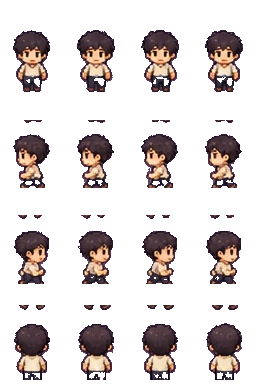
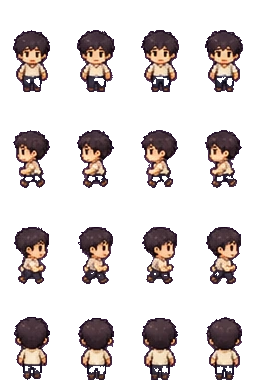
fix(sprites): calibrate row boundaries and eliminate top floating shoe artifacts

diff --git a/src/game/HarborStage.tsx b/src/game/HarborStage.tsx
@@ -36,7 +36,7 @@ export default function HarborStage({onTarget,onCustomerCount,onCustomerExit,ser
     constructor(){super('HarborCourtyard')}
     preload(){
      this.load.image('courtyard','/assets/harbor-courtyard.webp?v=5');
-     for(const id of keys)this.load.spritesheet(id,`/assets/pixel/characters/${id}.png?v=5`,{frameWidth:64,frameHeight:96});
+     for(const id of keys)this.load.spritesheet(id,`/assets/pixel/characters/${id}.png?v=6`,{frameWidth:64,frameHeight:96});
      for(const id of ['ban-go','ghe-go','cay-canh','den-long'])this.load.image(id,`/assets/pixel/props/${id}.png`);
     }
     private report(){countRef.current?.(this.customers.filter(g=>g.state==='waiting').length)}

diff --git a/tools/repair_characters_and_courtyard.py b/tools/repair_characters_and_courtyard.py
@@ -25,7 +25,8 @@ cols = {
     'khach-nu': [1373, 1415, 1457, 1500],
 }
 # Source is rows down / left / right / up, four successive walking frames each
-rows = [(193, 264), (262, 330), (330, 399), (398, 473)]
+# Calibrated row boundaries prevent clipping previous row's shoes into head region
+rows = [(186, 264), (274, 336), (343, 405), (404, 480)]
 folder = ROOT / 'public/assets/pixel/characters'
 folder.mkdir(parents=True, exist_ok=True)
 half_w = 19
@@ -58,9 +59,15 @@ for name, xs in cols.items():
                     primary = max(valid, key=lambda c: c[1] - c[2] * 25)
                     prim_j = primary[0]
                     prim_cx = centroids[prim_j][0]
+                    prim_top = stats[prim_j, cv2.CC_STAT_TOP]
                     for j, area, dist, is_edge in valid:
                         # Include only components belonging to the primary character
                         if abs(centroids[j][0] - prim_cx) <= 13:
+                            comp_top = stats[j, cv2.CC_STAT_TOP]
+                            comp_bot = comp_top + stats[j, cv2.CC_STAT_HEIGHT]
+                            # Reject any stray piece floating disconnected above the head
+                            if comp_bot < prim_top - 2:
+                                continue
                             if not (is_edge and area < 250 and dist > 9):
                                 good[labels == j] = 255
 
@@ -69,6 +76,24 @@ for name, xs in cols.items():
             bbox = pic.getbbox()
             if not bbox: continue
             pic = pic.crop(bbox)
+
+            # Strip any residual floating disconnected artifacts above the character's head
+            pic_arr = np.array(pic)
+            pic_alpha = pic_arr[:, :, 3]
+            row_has_pixels = np.any(pic_alpha > 0, axis=1)
+            active_rows = np.where(row_has_pixels)[0]
+            if len(active_rows) > 0:
+                # Find if there is a gap > 2 lines between top artifacts and the main body
+                for i in range(len(active_rows) - 1):
+                    if active_rows[i+1] - active_rows[i] >= 3:
+                        # Clear everything above the gap (stray floating pixels)
+                        pic_arr[:active_rows[i+1], :, 3] = 0
+                        break
+                pic = Image.fromarray(pic_arr, 'RGBA')
+                bbox2 = pic.getbbox()
+                if bbox2:
+                    pic = pic.crop(bbox2)
+
             pic.thumbnail((56, 80), Image.Resampling.LANCZOS)
             # Correct: EVERY frame is at its own x/y atlas position with exactly 1 character
             px = frame * 64 + (64 - pic.width) // 2
